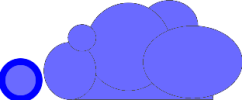
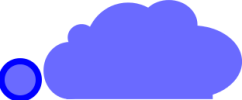
Added some new graphics, implemented much of HTML editing and merging

diff --git a/edit.css b/edit.css
@@ -12,12 +12,12 @@ div.ssceditelement, div.ssceditcontent {
     right: 10%; top: 20%; left: auto; max-height: 60%;
     padding-bottom: 1em;}
 div.ssceditelement {
-    min-width: 30em; max-width: 75%;}
+    min-width: 15em; max-width: 75%;}
 div.ssceditelement .button.image, div.ssceditelement button.image {
     width: 1em; height: 1em; float: right;}
 
 div.ssceditelement div.sscsignature, div.ssceditelement div.buttons {
-    margin-right: 3em; clear: left; width: auto;}
+    margin-right: 2.2em; clear: left; width: auto;}
 
 div.ssceditelement .button.contract, div.ssceditelement button.contract {
     display: none;}
@@ -26,13 +26,17 @@ div.ssceditelement div.buttons {
     text-align: right; padding-bottom: 1ex;}
 div.ssceditelement div.buttons button {
     font-size: 16px;
-    margin-left: 0px; margin-right: 0px;
+    margin-left: 0.5ex; margin-right: 0px;
+    margin-bottom: 0.5ex;
     float: right;}
 
-div.ssceditelement select {
-    float: left; width: auto; font-size: 24px;}
-div.ssceditelement div.buttons select {
-    display: inline;}
+div.ssceditelement span.sscdomnav {
+    float: left; width: auto; white-space: nowrap;
+    vertical-align: middle;
+    font-size: 50%;}
+div.ssceditelement span.sscdomnav select.sscrelated {
+    font-size: 75%; max-width: 15em;
+    display: inline; vertical-align: middle;}
 
 div.ssceditelement table.sscattribs {
     margin-top: 0.25ex;
@@ -48,8 +52,6 @@ div.ssceditelement table.sscattribs td {
 div.ssceditelement table.sscattribs input[TYPE="TEXT"] {
     font-size: 16px; width: 100%;}
 
-select.sscrelated option.sscbase { font-weight: bold; }
-
 /* Expansion rules */
 
 div.ssceditelement.sscexpanded .button.contract,
@@ -61,7 +63,7 @@ div.ssceditelement.sscexpanded button.expand {
 
 /* Edit content */
 
-div.ssceditcontent { width: 50%;}
+div.ssceditcontent { width: 75%;}
 div.ssceditcontent div.title {
     text-align: left; margin-right: 2em;}
 div.ssceditcontent .button.image, div.ssceditcontent button.image {
@@ -104,23 +106,25 @@ div.sscdialog.sscreclass table th {
 /* Editing text selections */
 
 div.ssctextedit {
-    min-width: 30%; max-width: 70%;
+    min-width: 70%; max-width: 80%;
     height: auto; width: auto;
-    right: 10%; top: 20%; width: 50%;
+    right: 5%; top: 15%; 
     resize: both;}
 div.ssctextedit.sscbigtext {
     height: 50%; width: 70%;
     font-size: 150%;}
 
-div.ssctextedit div.sscselection { margin-right: 3em;}
+div.ssctextedit div.sscselection { margin-right: 3.5em;}
 div.ssctextedit div.sscselection { text-align: left; }
 div.ssctextedit div.sscselection input[TYPE='TEXT'] {
     font-size: 40%; width: 100%;}
 
+div.ssctextedit div.toprow { min-height: 1.2em;}
+
 div.ssctextedit input[TYPE="TEXT"] { font-size: 50%;}
-div.ssctextedit textarea {
+div.sscdialog.ssctextedit textarea {
     height: 90%; width: 100%; font-size: 16px;
-    min-height: 7em; resize: both;}
+    min-height: 7em; resize: both; clear: none;}
 div.sscdialog.ssctextedit { padding-bottom: 1ex;}
 div.ssctextedit .button, div.ssctextedit button {
     margin-top: 0px; margin-left: 0.25ex;
@@ -132,6 +136,14 @@ div.ssctextedit div.row.row2 {
 div.ssctextedit .button.image, div.ssctextedit button.image {
     width: 1em; height: 1em;}
 
+div.ssctextedit .ssctextwrap { display: none;}
+div.ssctextedit.sscwrap .ssctextwrap {
+    display: block; margin-right: 3.5em;}
+
+div.ssctextedit.sscwrap div.sscselection,
+div.ssctextedit.sscbigtext div.sscselection {
+    margin-top: 1ex; margin-right: 0px; clear: both;}
+
 div.ssctextedit.sscwrap .row.row1 { height: auto; }
 div.ssctextedit.sscwrap input[TYPE="TEXT"] { width: 98%; }
     
@@ -140,8 +152,7 @@ div.ssctextedit div.ssctextwrap {
     clear: left;}
 div.ssctextedit div.ssctextwrap input[TYPE='TEXT'] { width: 100%; }
 div.ssctextedit div.sscsignature {
-    margin-right: 2em;
-    clear: left;}
+    margin-right: 4.5em; clear: left;}
 div.ssctextedit div.ssctextinput input[TYPE='TEXT'] { width: 100%; }
 div.ssctextedit div.sscwrapspec, div.ssctextedit div.sscmergespec {
     display: none;}
@@ -151,43 +162,8 @@ div.ssctextedit.sscmerge div.sscmergespec {display: block;}
 div.ssctextedit.sscwrap div.row.row2 { display: block;}
 div.ssctextedit.sscwrap div.ssctextinput {
     clear: both; margin-right: 0px; width: 100%;}
-div.ssctextedit.sscwrap .row1 .button,
-div.ssctextedit.sscwrap .row1 button {
-    display: none;}
-
-/* Edit selection */
-
-div.ssceditselection input[TYPE='TEXT'] {
-    font-size: 100%;}
-div.ssceditselection input[NAME='SELECTION'] {
-    width: 80%;}
-div.ssceditselection input[NAME='WRAP'] {
-    width: 50%;}
-div.ssceditselection button { float: right;}
-
-div.ssceditselection { height: 1em;}
-div.ssceditselection .button, div.ssceditselection button {
-    height: 1em; width: auto;}
-div.ssceditselection button.cancel, div.ssceditselection .button.cancel,
-div.ssceditselection button.wrap, div.ssceditselection .button.wrap,
-div.ssceditselection button.ok, div.ssceditselection .button.ok {
-    float: right;}
-
-div.ssceditselection div.inputbox {
-    margin-left: 1.5em; margin-right: 2.5em;}
-div.ssceditselection div.sscinputbox input {
-    width: 100%;}
-div.ssceditselection input.sscwrapinput { display: none;}
-
-div.ssceditselection.sscwrapping { height: 2em;}
-div.ssceditselection.sscwrapping input.sscwrapinput {
-    display: block; width: 100%;}
-
-div.ssceditselection input[NAME='SELECTION'] {
-    width: 80%;}
-div.ssceditselection input[NAME='WRAP'] {
-    width: 50%;}
-div.ssceditselection button { float: right;}
+div.ssctextedit.sscwrap .row1 button {display: none;}
+div.ssctextedit.sscbigtext.sscwrap .row1 button {display: none;}
 
 /* Save dialog */
 

diff --git a/textedit.html b/textedit.html
@@ -1,37 +1,22 @@
-<div class="row row1">
-  <button class="close image"
+<button class="close image"
 	title="close this dialog without saving changes">
-    <img src="{{imgroot}}/redx.svgz" alt="cancel" class="svg" alt="close/cancel"/>
-    <img src="{{imgroot}}/redx100x100.png" alt="cancel" class="notsvg" alt="close/cancel"/>
-  </button>
-  <button class="ok image"
+  <img src="{{imgroot}}/redx.svgz" alt="cancel" class="svg" alt="close/cancel"/>
+  <img src="{{imgroot}}/redx100x100.png" alt="cancel" class="notsvg" alt="close/cancel"/>
+</button>
+<button class="ok image"
 	title="save your edit(s) and close this dialog (Enter also works)">
-    <img src="{{imgroot}}/checkmark.svgz" alt="cancel" class="svg" alt="save/close"/>
-    <img src="{{imgroot}}/checkmark100x100.png" alt="cancel" class="notsvg" alt="save/close"/>
-  </button>
-  <button class="wrap image"
+  <img src="{{imgroot}}/checkmark.svgz" alt="cancel" class="svg" alt="save/close"/>
+  <img src="{{imgroot}}/checkmark100x100.png" alt="cancel" class="notsvg" alt="save/close"/>
+</button>
+<button class="wrap image"
 	title="Wrap this text (as edited) in additional markup">
-    <img src="{{imgroot}}/markupwrap_white.svgz" alt="cancel" class="svg" alt="wrap"/>
-    <img src="{{imgroot}}/markupwrap_white100x100.png" alt="cancel" class="notsvg" alt="wrap"/>
-  </button>
-  <div class="sscselection">
-    <input TYPE="TEXT" NAME="SELECTION" VALUE="{{selection}}"
-	   class="sscinitfocus"/>
-  </div>
+  <img src="{{imgroot}}/markupwrap_ondark.svgz" alt="cancel" class="svg" alt="wrap"/>
+  <img src="{{imgroot}}/markupwrap_ondark100x100.png" alt="cancel" class="notsvg" alt="wrap"/>
+</button>
+<div class="ssctextwrap sscsignature">
+  <input TYPE="TEXT" NAME="WRAPPER" value=""
+	 PLACEHOLDER="Wrapper (e.g. em, blockquote, etc)"/>
 </div>
-<div class="row row2">
-  <button class="close image"
-	title="close this dialog without saving changes">
-    <img src="{{imgroot}}/redx.svgz" alt="cancel" class="svg" alt="close/cancel"/>
-    <img src="{{imgroot}}/redx.svgz" alt="cancel" class="notsvg" alt="close/cancel"/>
-  </span>
-  <button class="ok image"
-	title="save your edit(s) and close this dialog (Enter also works)">
-    <img src="{{imgroot}}/checkmark.svgz" alt="cancel" class="svg" alt="save/close"/>
-    <img src="{{imgroot}}/checkmark100x100.png" alt="cancel" class="notsvg" alt="save/close"/>
-  </button>
-  <div class="ssctextwrap sscsignature">
-    <input TYPE="TEXT" NAME="WRAPPER" value=""
-	   PLACEHOLDER="Wrapper (e.g. em, blockquote, etc)"/>
-  </div>
+<div class="sscselection">
+  <textarea NAME="SELECTION" class="sscinitfocus">{{selection}}</textarea>
 </div>

diff --git a/bigtextedit.html b/bigtextedit.html
@@ -1,4 +1,4 @@
-<div class="row row1">
+<div class="toprow">
   <button class="close image">
     <img src="{{imgroot}}/redx.svgz" alt="cancel" class="svg"/>
     <img src="{{imgroot}}/redx.svgz" alt="cancel" class="notsvg"/>
@@ -8,14 +8,14 @@
     <img src="{{imgroot}}/checkmark.svgz" alt="cancel" class="notsvg"/>
   </button>
   <button class="wrap image"
-	title="Wrap this text (as edited) in additional markup">
-    <img src="{{imgroot}}/markupwrap_white.svgz" alt="cancel" class="svg" alt="wrap"/>
-    <img src="{{imgroot}}/markupwrap_white100x100.png" alt="cancel" class="notsvg" alt="wrap"/>
+	  title="Wrap this text (as edited) in additional markup">
+    <img src="{{imgroot}}/markupwrap_ondark.svgz" alt="cancel" class="svg" alt="wrap"/>
+    <img src="{{imgroot}}/markupwrap_ondark100x100.png" alt="cancel" class="notsvg" alt="wrap"/>
   </button>
   <button class="merge image"
-	title="Wrap this text (as edited) in additional markup">
-    <img src="{{imgroot}}/opendown.svgz" alt="cancel" class="svg" alt="wrap"/>
-    <img src="{{imgroot}}/opendown.png" alt="cancel" class="notsvg" alt="wrap"/>
+	  title="Wrap this text (as edited) in additional markup">
+    <img src="{{imgroot}}/mergemarkup_ondark.svgz" alt="cancel" class="svg" alt="merge"/>
+    <img src="{{imgroot}}/mergemarkup_ondark100x100.png" alt="cancel" class="notsvg" alt="merge"/>
   </button>
   <div class="sscwrapspec sscsignature">
     <input TYPE="TEXT" NAME="WRAPPER" value=""
@@ -26,6 +26,6 @@
 	   PLACEHOLDER="Merged signature (e.g. p.cite or em.snarky)"/>
   </div>
 </div>
-<div class="textinput">
+<div class="sscselection">
   <textarea NAME="SELECTION" class="sscinitfocus"></textarea>
 </div>

diff --git a/ssc.css b/ssc.css
@@ -1,3 +1,52 @@
+/* http://meyerweb.com/eric/tools/css/reset/ 
+   v2.0 | 20110126
+   License: none (public domain)
+*/
+
+html, body, div, span, applet, object, iframe,
+h1, h2, h3, h4, h5, h6, p, blockquote, pre,
+a, abbr, acronym, address, big, cite, code,
+del, dfn, em, img, ins, kbd, q, s, samp,
+small, strike, strong, sub, sup, tt, var,
+b, u, i, center,
+dl, dt, dd, ol, ul, li,
+fieldset, form, label, legend,
+table, caption, tbody, tfoot, thead, tr, th, td,
+article, aside, canvas, details, embed, 
+figure, figcaption, footer, header, hgroup, 
+menu, nav, output, ruby, section, summary,
+time, mark, audio, video {
+	margin: 0;
+	padding: 0;
+	border: 0;
+	font-size: 100%;
+	font: inherit;
+	vertical-align: baseline;
+}
+/* HTML5 display-role reset for older browsers */
+article, aside, details, figcaption, figure, 
+footer, header, hgroup, menu, nav, section {
+	display: block;
+}
+body {
+	line-height: 1;
+}
+ol, ul {
+	list-style: none;
+}
+blockquote, q {
+	quotes: none;
+}
+blockquote:before, blockquote:after,
+q:before, q:after {
+	content: '';
+	content: none;
+}
+table {
+	border-collapse: collapse;
+	border-spacing: 0;
+}
+
 /* Generic rules */
 
 img.svg { display: none;}

diff --git a/editelement.html b/editelement.html
@@ -14,7 +14,6 @@
 </div>
 <input class="sscstyleinput" TYPE="TEXT" NAME="STYLE"/>
 <div class="buttons">
-  <select class="sscrelated"></select>
   <button value="UNWRAP" "Remove this element by replacing it with its contents">
     Unwrap</button>
   <button value="DELETE" title="Delete this element">
@@ -23,6 +22,7 @@
     Attributes</button>
   <button value="CONTENT" title="Edit the HTML content of this element">
     Content</button>
+  <span class="sscdomnav">&lt;<select class="sscrelated"></select>&gt;</span>
 </div>
 <table class="sscattribs">
 </table>

diff --git a/toolbar.html b/toolbar.html
@@ -1,8 +1,8 @@
 <div id="SSCTOOLBARBUTTONS">
   <button class="image reclass"
 	title="Change all instances matching the current selector">
-    <img src="{{imgroot}}/changemarkup.svgz" alt="Reclass" class="svg"/>
-    <img src="{{imgroot}}/changemarkup100x100.png" alt="Reclass" class="notsvg"/>
+    <img src="{{imgroot}}/changemarkup_ondark.svgz" alt="Reclass" class="svg"/>
+    <img src="{{imgroot}}/changemarkup_ondark100x100.png" alt="Reclass" class="notsvg"/>
   </button>
   <button class="image scanup"
 	title="Go to the previous selected element">
